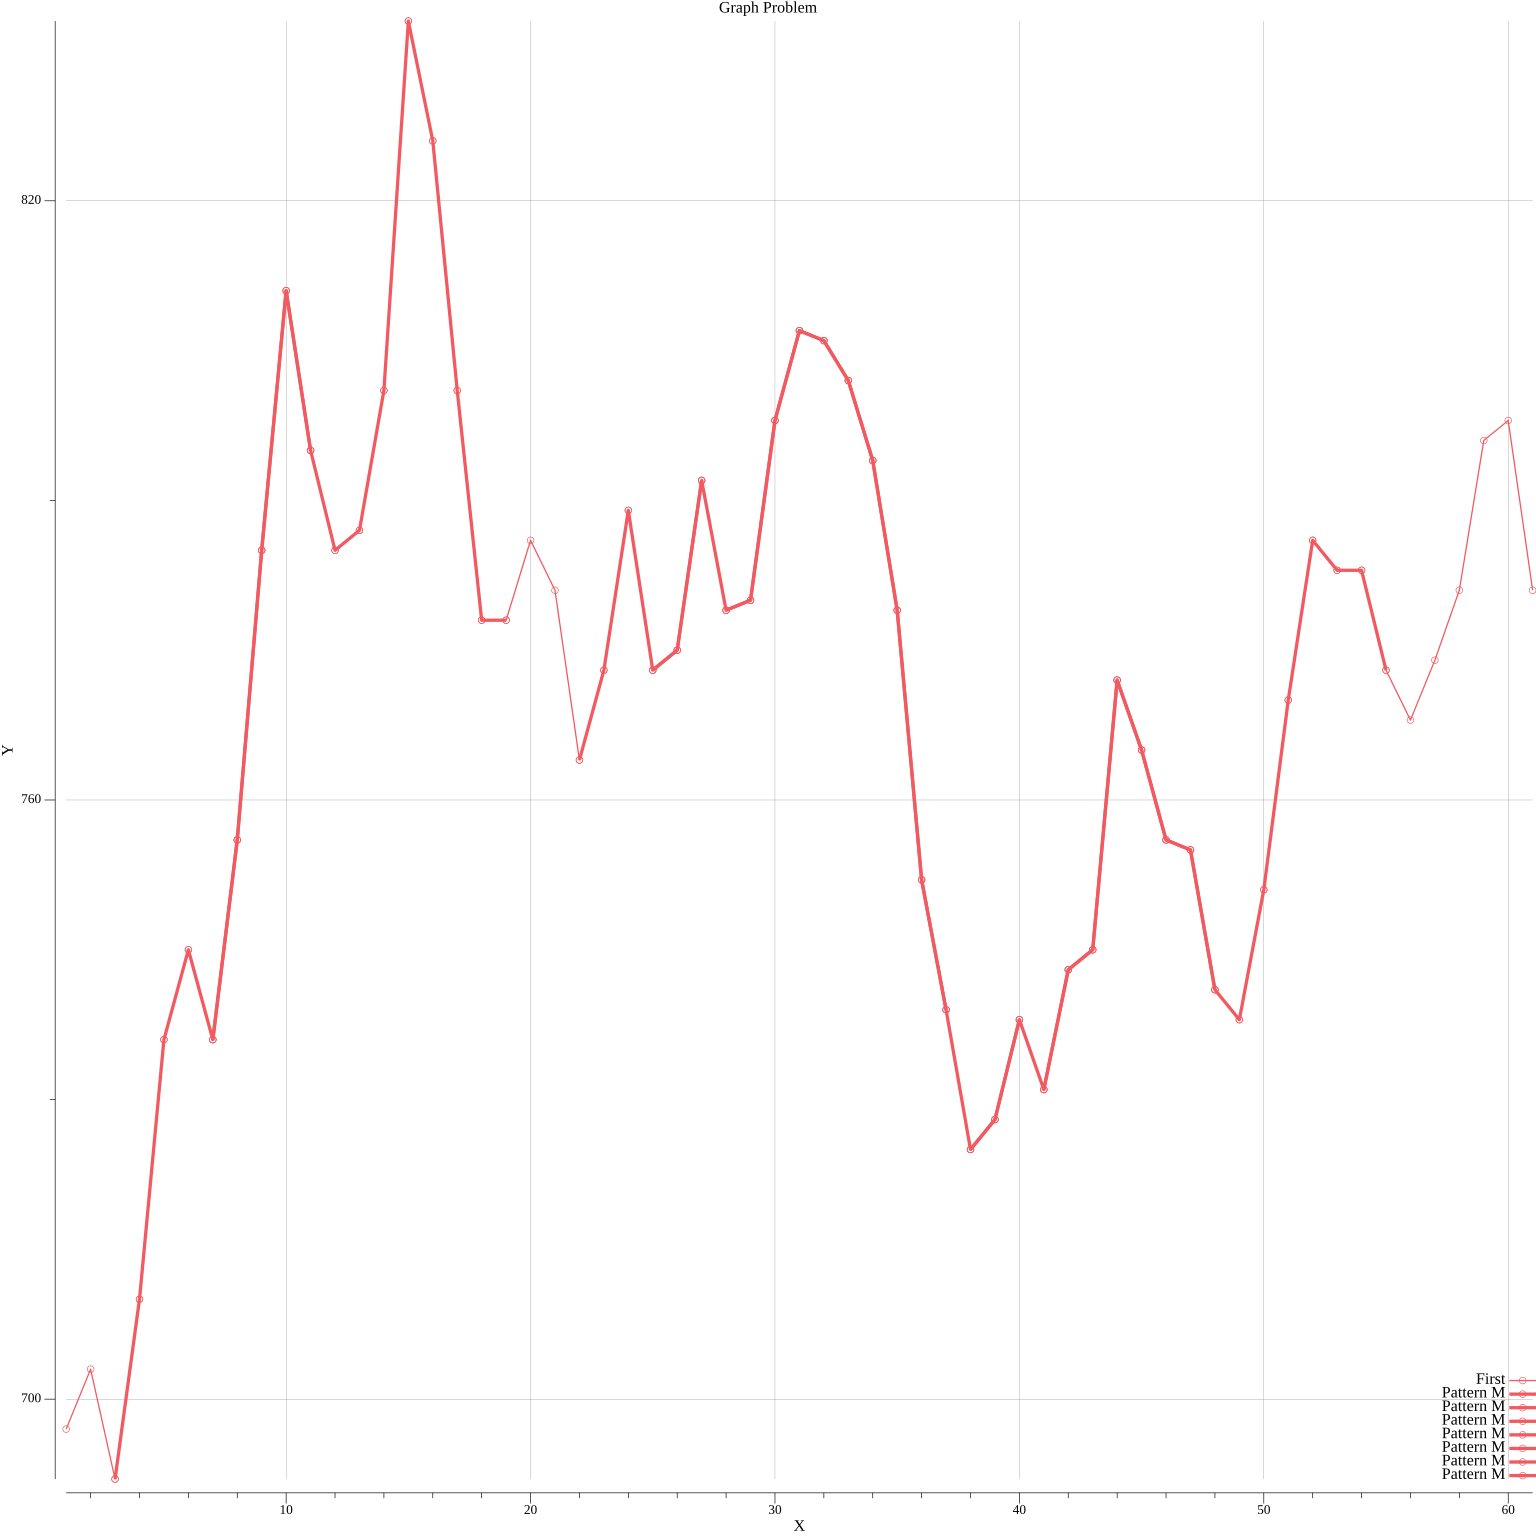
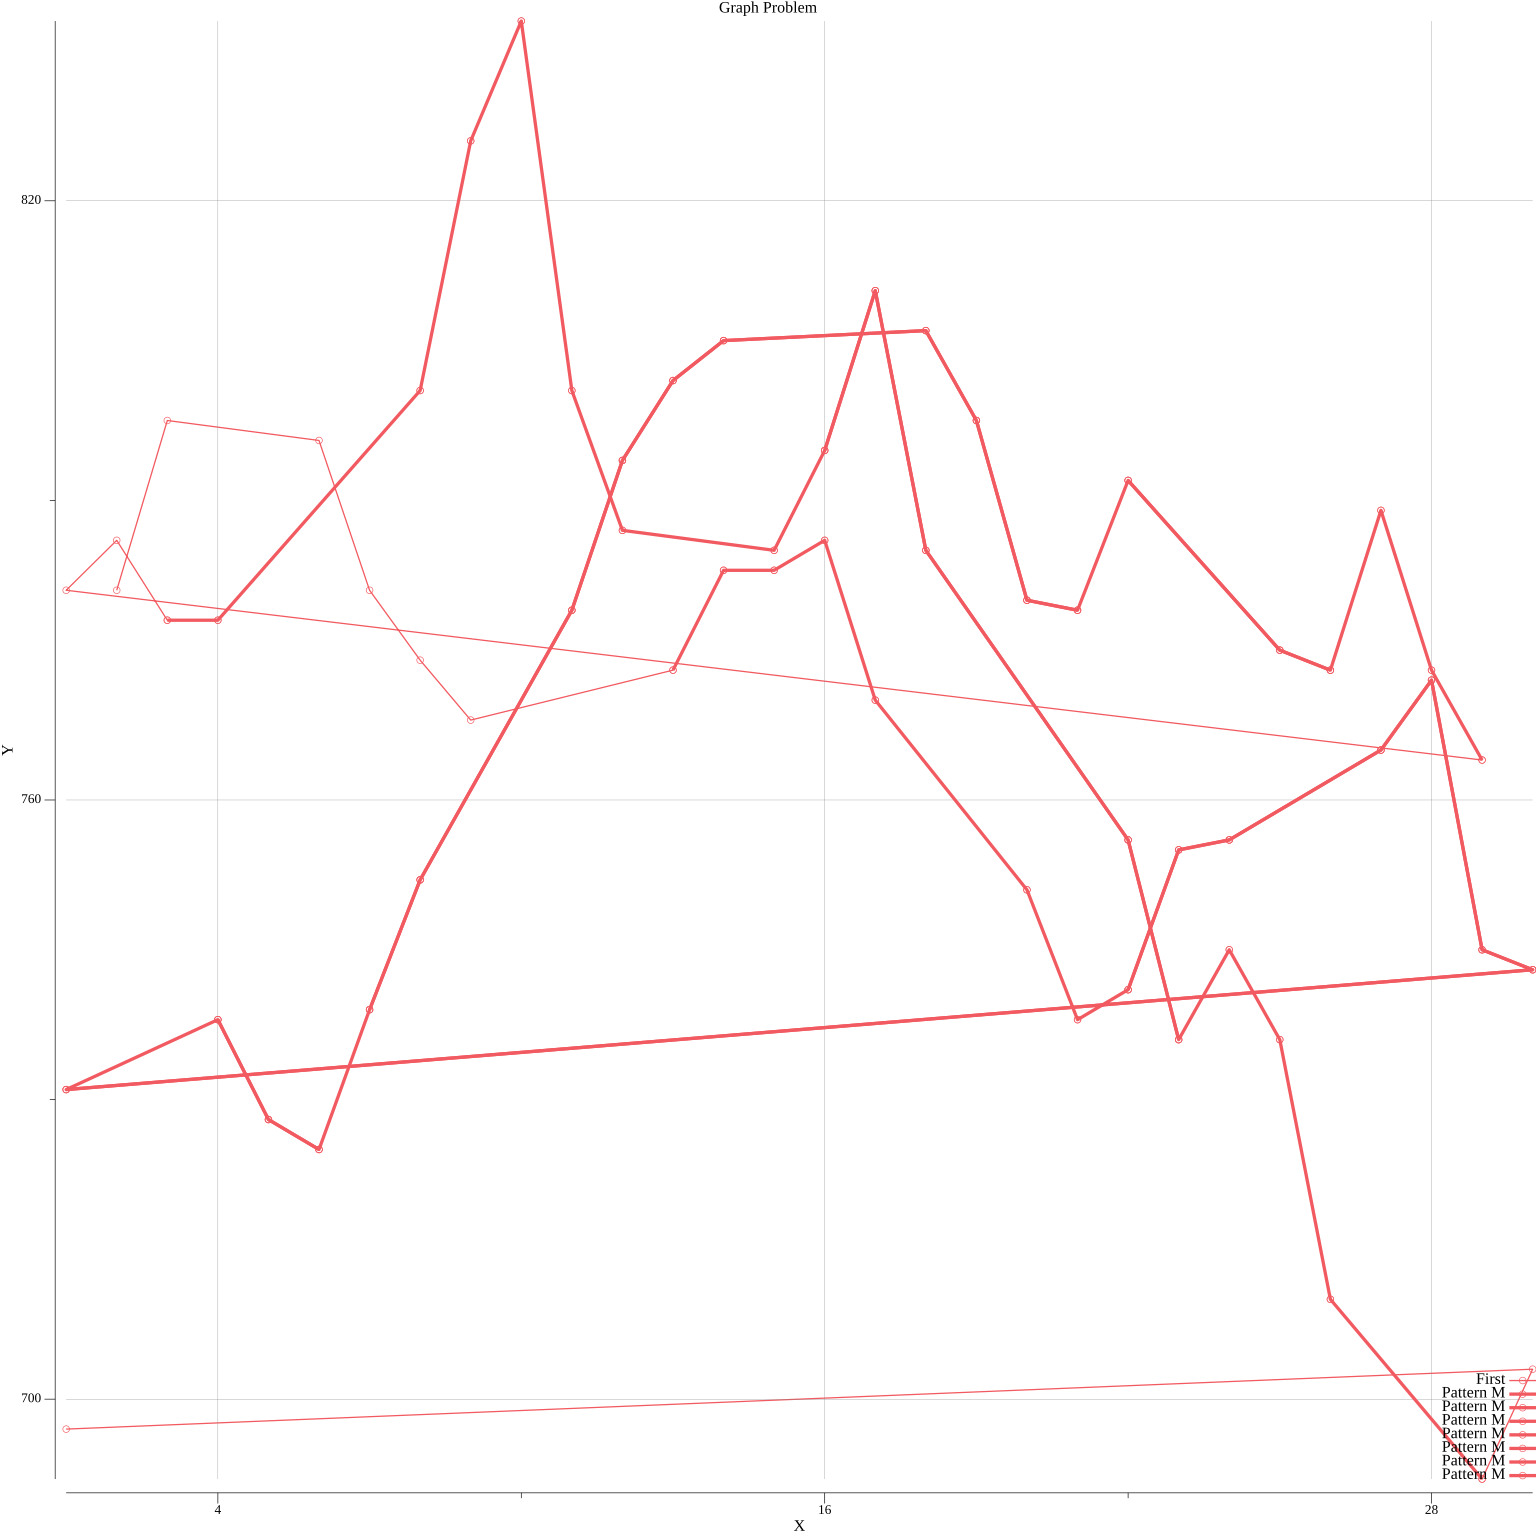
ll

diff --git a/main.go b/main.go
@@ -3,7 +3,11 @@ package main
 import (
 	"fmt"
 	"path/filepath"
+	"strconv"
 	"y/Generic"
+	"y/M"
+	"y/Structs_for_patterns"
+	"y/utils"
 )
 
 func main() {
@@ -62,5 +66,15 @@ func main() {
 		fmt.Println("data received:=>", data)
 
 	}
-	fmt.Println(data)
+	var t [][]int
+	for _, v := range data {
+		a, _ := strconv.Atoi(v.Day)
+		b, _ := strconv.Atoi(v.Value)
+		t = append(t, []int{a, b})
+	}
+	p := []string{"Upward", "Downward", "Upward", "Downward"}
+	m := &M.Letterm{t, p}
+	// a, b, c, _ := m.Pattern()
+	a, b, c, _ := Structs_for_patterns.Find(m)
+	utils.Plot1(t, c, a, b)
 }
